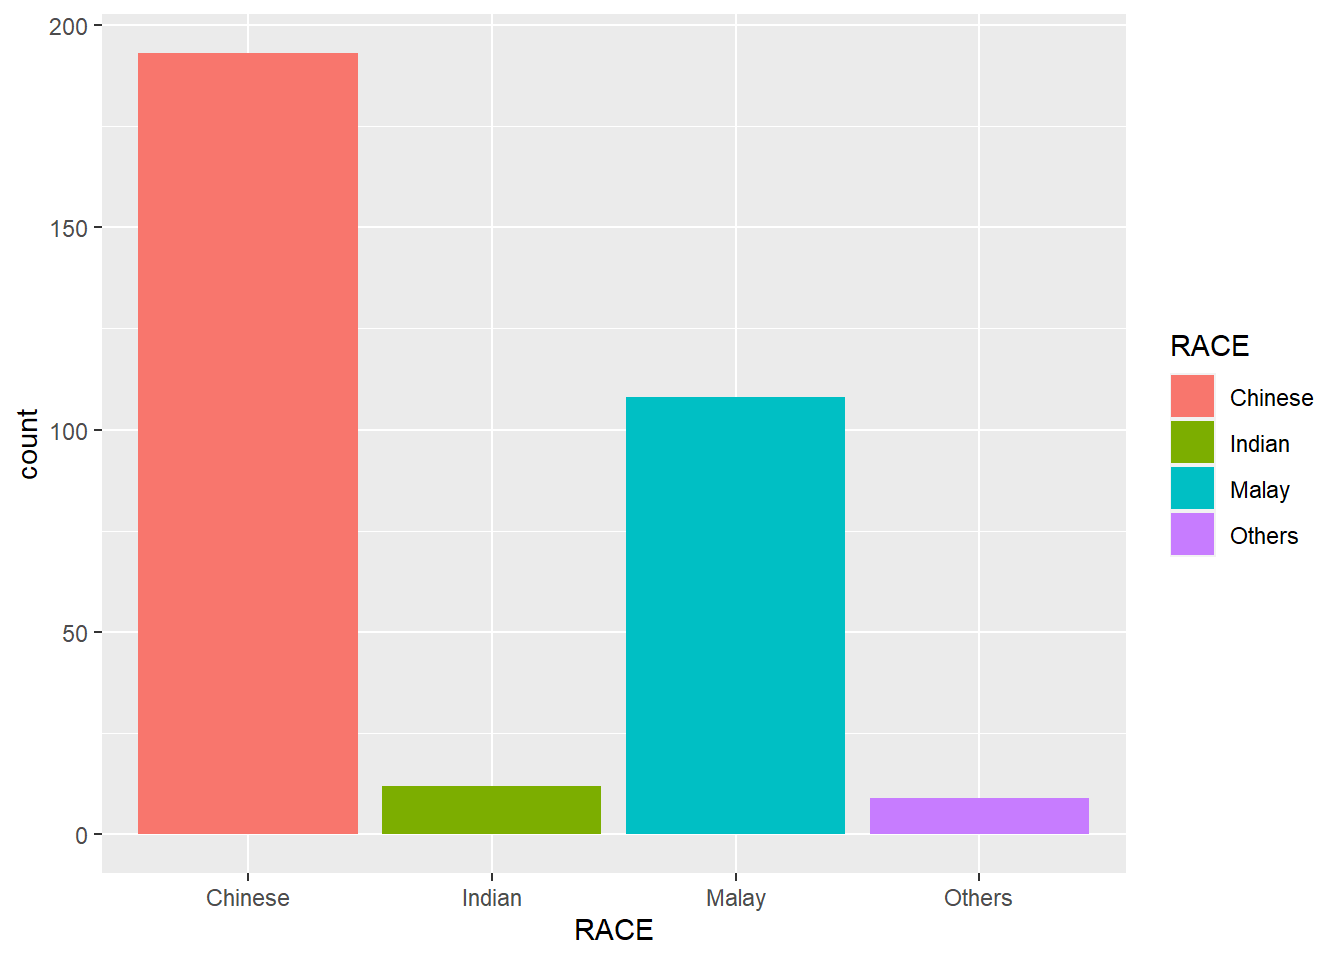
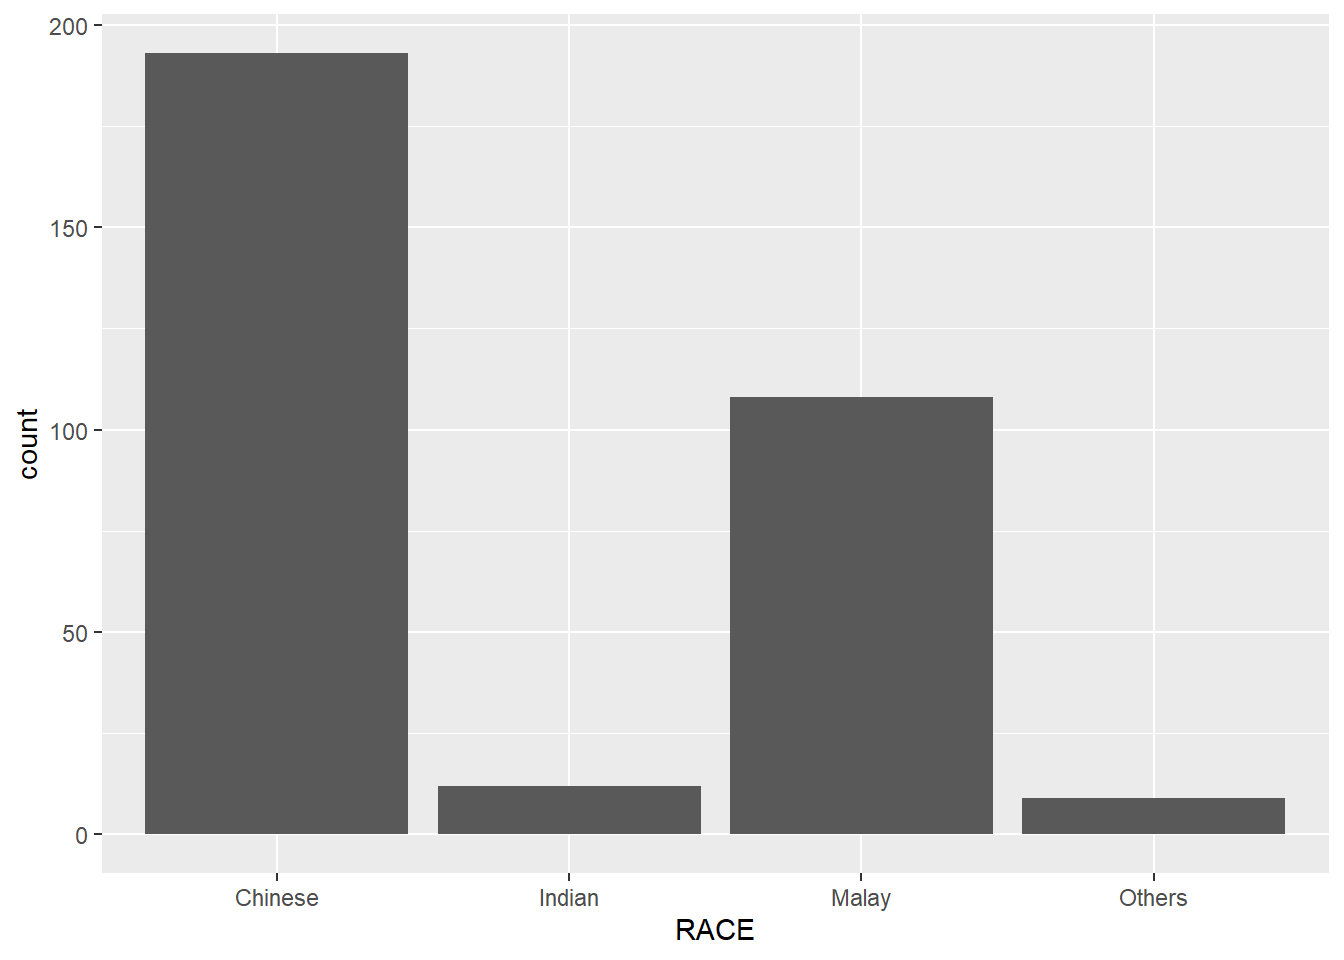
commit after editing Hands-on Exercise 1

diff --git a/_site/Hands-on_Ex/Hands-on_Ex01/Hands-on_Ex01.html b/_site/Hands-on_Ex/Hands-on_Ex01/Hands-on_Ex01.html
@@ -265,7 +265,7 @@ dbl (3): ENGLISH, MATHS, SCIENCE
 <details open="">
 <summary>Click to show/hide the code</summary>
 <div class="sourceCode cell-code" id="cb4"><pre class="sourceCode r code-with-copy"><code class="sourceCode r"><span id="cb4-1"><a href="#cb4-1" aria-hidden="true" tabindex="-1"></a><span class="fu">ggplot</span>(<span class="at">data =</span> exam_data, </span>
-<span id="cb4-2"><a href="#cb4-2" aria-hidden="true" tabindex="-1"></a>       <span class="fu">aes</span>(<span class="at">x =</span> RACE, <span class="at">fill=</span>RACE)) <span class="sc">+</span></span>
+<span id="cb4-2"><a href="#cb4-2" aria-hidden="true" tabindex="-1"></a>       <span class="fu">aes</span>(<span class="at">x =</span> RACE)) <span class="sc">+</span></span>
 <span id="cb4-3"><a href="#cb4-3" aria-hidden="true" tabindex="-1"></a>  <span class="fu">geom_bar</span>()</span></code><button title="Copy to Clipboard" class="code-copy-button"><i class="bi"></i></button></pre></div>
 </details>
 <div class="cell-output-display">
@@ -581,7 +581,7 @@ window.document.addEventListener("DOMContentLoaded", function (event) {
 <span id="cb11-39"><a href="#cb11-39" aria-hidden="true" tabindex="-1"></a><span class="co">#| code-fold: show</span></span>
 <span id="cb11-40"><a href="#cb11-40" aria-hidden="true" tabindex="-1"></a><span class="co">#| code-summary: "Click to show/hide the code"</span></span>
 <span id="cb11-41"><a href="#cb11-41" aria-hidden="true" tabindex="-1"></a><span class="fu">ggplot</span>(<span class="at">data =</span> exam_data, </span>
-<span id="cb11-42"><a href="#cb11-42" aria-hidden="true" tabindex="-1"></a>       <span class="fu">aes</span>(<span class="at">x =</span> RACE, <span class="at">fill=</span>RACE)) <span class="sc">+</span></span>
+<span id="cb11-42"><a href="#cb11-42" aria-hidden="true" tabindex="-1"></a>       <span class="fu">aes</span>(<span class="at">x =</span> RACE)) <span class="sc">+</span></span>
 <span id="cb11-43"><a href="#cb11-43" aria-hidden="true" tabindex="-1"></a>  <span class="fu">geom_bar</span>()</span>
 <span id="cb11-44"><a href="#cb11-44" aria-hidden="true" tabindex="-1"></a><span class="in">```</span></span>
 <span id="cb11-45"><a href="#cb11-45" aria-hidden="true" tabindex="-1"></a></span>
